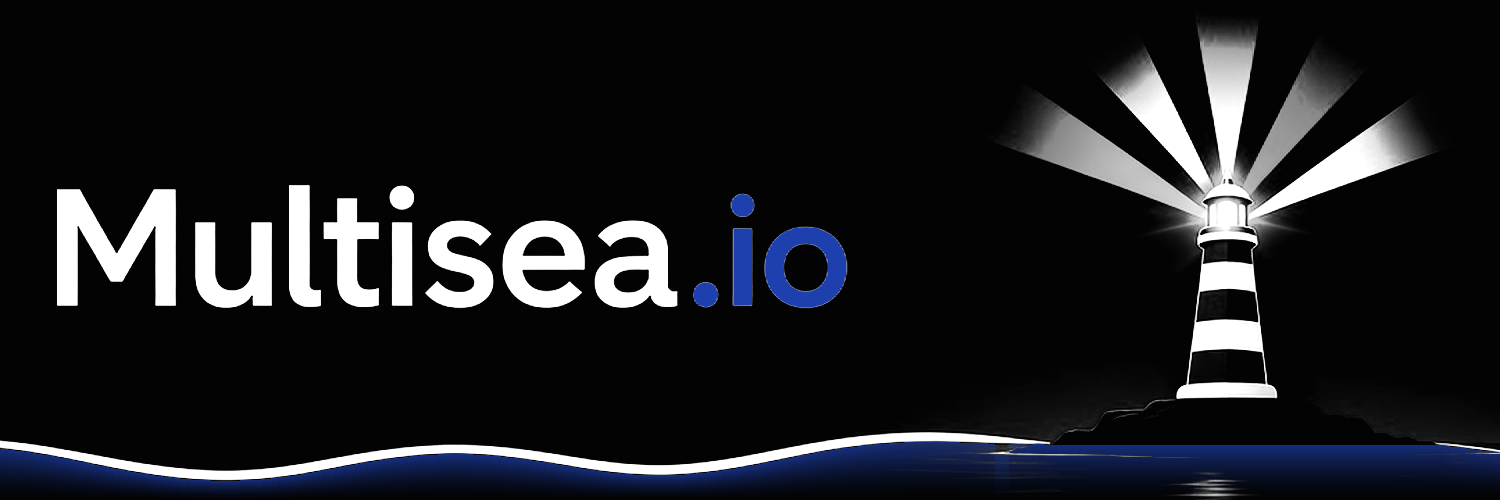
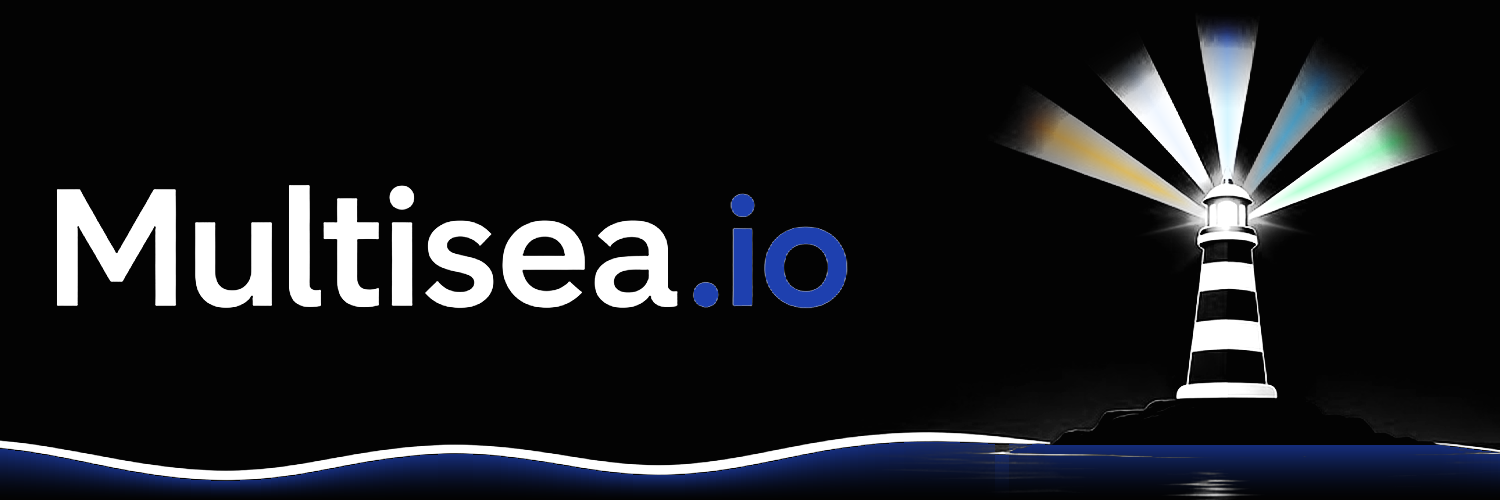
Tint lighthouse beam centers

Changed region(s): [[0.7973, 0.06, 0.9507, 0.39], [0.6747, 0.24, 0.7973, 0.42]]

diff --git a/scripts/beam-tints.py b/scripts/beam-tints.py
@@ -1,0 +1,42 @@
+# Tint the centers of the 5 lighthouse rays (pixel-level). Run after recolor.py (+ navy-accents.py for banner).
+import numpy as np; from PIL import Image
+TINTS=[(0xd4,0xaf,0x37),(0xc8,0xd0,0xdc),(0x5b,0x7f,0xe6),(0x7d,0xd3,0xfc),(0x86,0xef,0xac)]  # left -> right
+def lum(c): return 0.2126*c[...,0]+0.7152*c[...,1]+0.0722*c[...,2]
+def run(name,dst,lamp_guess,r0,xmin=0):
+    o=np.array(Image.open(f'brand/{name}-orig.png').convert('RGB')).astype(float)/255
+    im=Image.open(dst); alpha=np.array(im)[...,3] if im.mode=='RGBA' else None
+    b=np.array(im.convert('RGB')).astype(float)/255
+    V=o.max(-1);S=(V-o.min(-1))/np.maximum(V,1e-6); m=(S>0.4)&(V>0.5); m[:,:xmin]=False
+    ys,xs=np.where(m); cx,cy=lamp_guess; best=None
+    for dx in range(-40,41,4):
+     for dy in range(-60,61,4):
+      lx,ly=cx+dx,cy+dy; k=(ys<ly-30)&(np.hypot(xs-lx,ys-ly)>60)
+      h=np.histogram(np.degrees(np.arctan2(ly-ys[k],xs[k]-lx)),bins=180,range=(0,180))[0]+1e-9
+      p=h/h.sum(); e=-(p*np.log(p)).sum()
+      if best is None or e<best[0]: best=(e,lx,ly,h)
+    _,lx,ly,h=best; on=h>h.max()*0.15; rays=[]; i=0
+    while i<180:
+        if on[i]:
+            j=i
+            while j<180 and on[j]: j+=1
+            if j-i>=4: rays.append((i,j))
+            i=j
+        else: i+=1
+    assert len(rays)==5, rays
+    rays=sorted(rays,key=lambda r:-r[0])  # left (large angle) -> right
+    H,W=b.shape[:2]; Y,X=np.mgrid[0:H,0:W]; A=np.degrees(np.arctan2(ly-Y,X-lx)); R=np.hypot(X-lx,Y-ly)
+    radial=np.clip((R-r0)/r0,0,1)*(Y<ly)
+    L=lum(b)
+    from PIL import ImageFilter
+    rm=np.array(Image.fromarray((m*255).astype(np.uint8)).filter(ImageFilter.MaxFilter(9)).filter(ImageFilter.GaussianBlur(8))).astype(float)/255
+    radial=radial*rm
+    for (a0,a1),t in zip(rays,TINTS):
+        c=(a0+a1)/2; hw=(a1-a0)/2; t=np.array(t,float)/255
+        w=np.clip(1-np.abs(A-c)/hw,0,1)**1.2*0.5*radial
+        tgt=np.clip(L[...,None]*0.92+(t-lum(t))[None,None,:]*1.8,0,1)
+        b=b*(1-w[...,None])+tgt*w[...,None]
+    out=(b*255).round().clip(0,255).astype(np.uint8)
+    if alpha is not None: out=np.dstack([out,alpha])
+    Image.fromarray(out).save(dst); print(name,'lamp',lx,ly,'rays',rays)
+run('logo','brand/logo-black.png',(502,420),90)
+run('banner','brand/banner-black.png',(1220,190),40,950)
